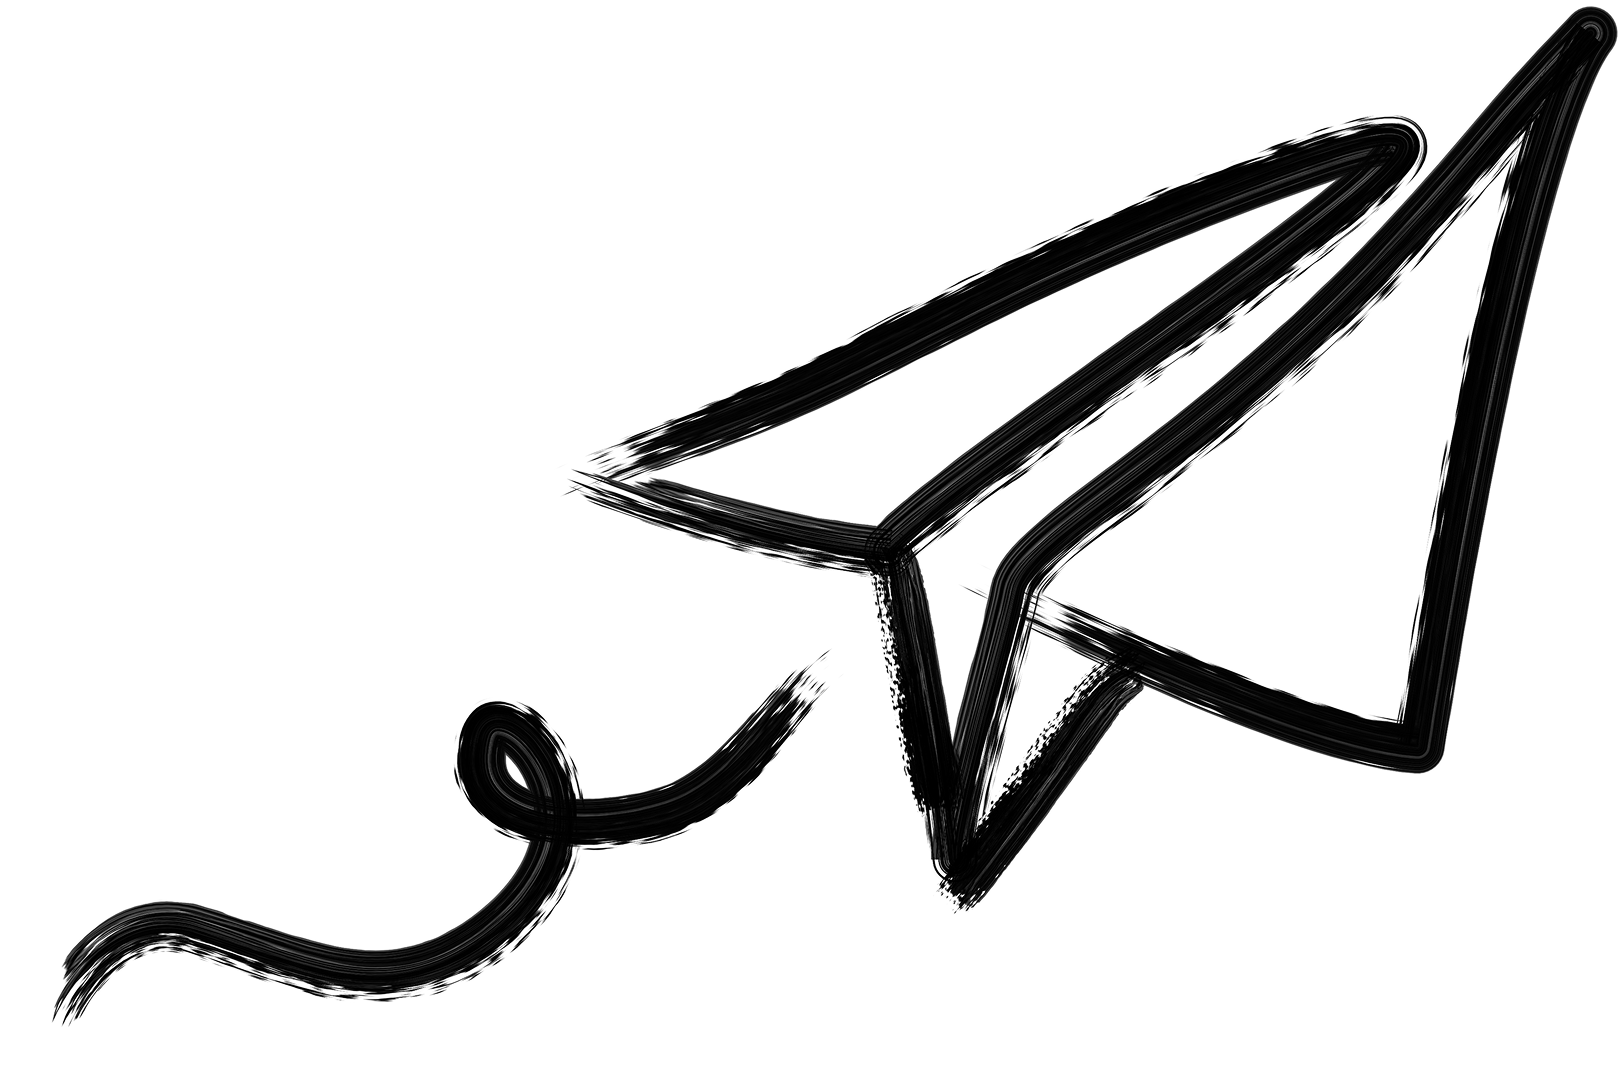
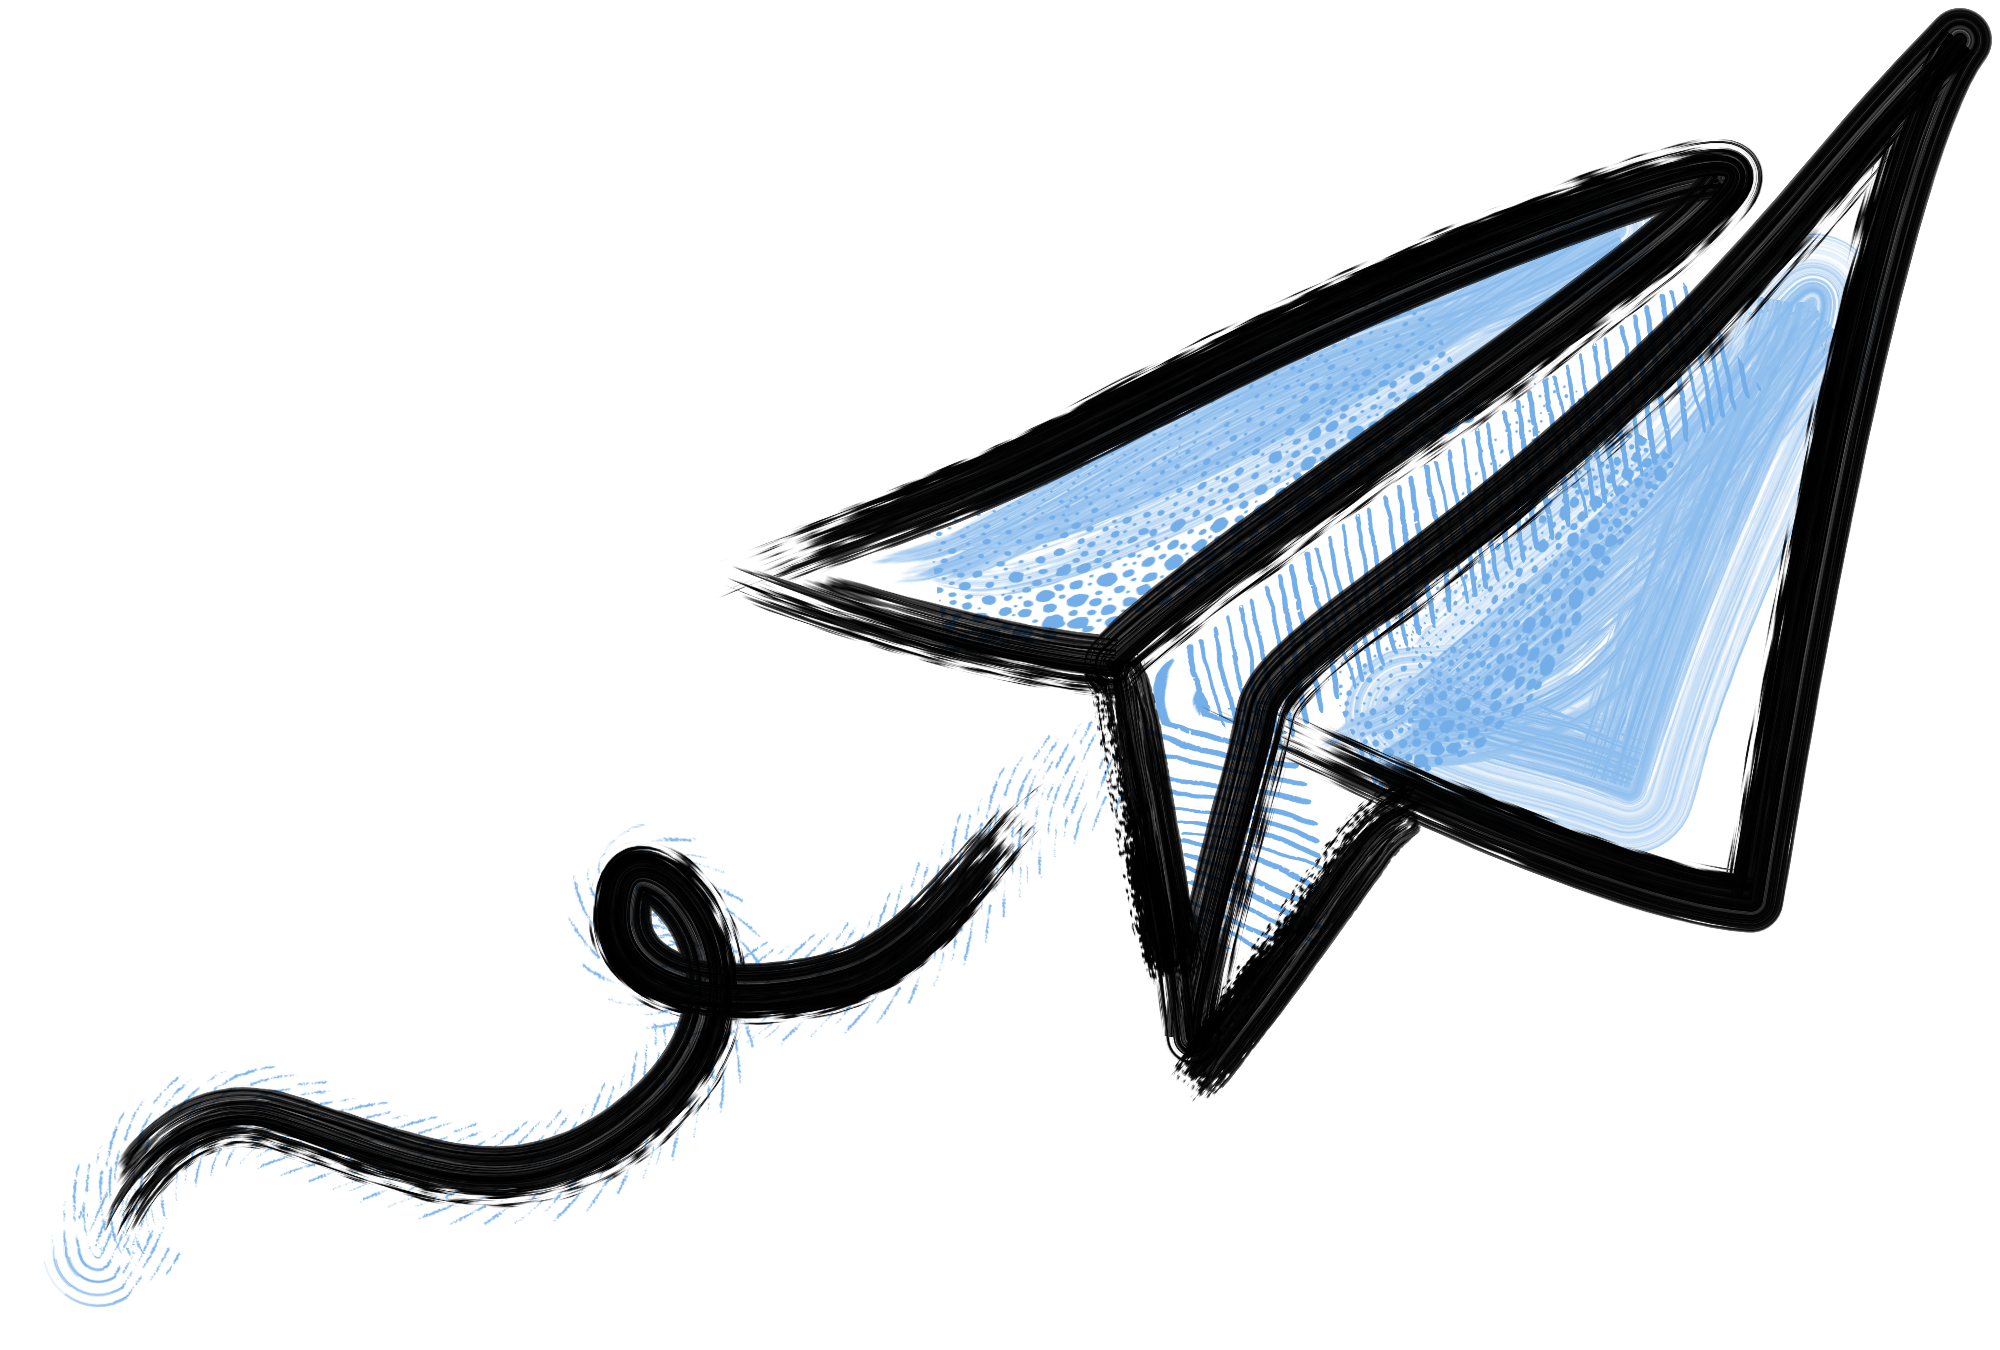
Finish contact form

Changed region(s): [[0.0308, 0.0608, 0.9858, 0.9724], [0.9858, 0.0304, 1.0, 0.0608]]

diff --git a/frontend/styles/_contact.scss b/frontend/styles/_contact.scss
@@ -3,6 +3,7 @@
 .contact {
 	background: url("/images/contact_border.png") left center / contain no-repeat;
   padding: 2rem 2rem 2rem 4rem;
+  margin-bottom: 8rem;
 
   @media only screen and (min-width: $breakpoint-large) {
 		margin-top: 4rem;
@@ -24,15 +25,9 @@
 
     input, textarea {
       width: 100%;
-      padding: 1rem;
-      border: none;
-      background-color: #fff;
-      border-radius: 4px;
-      font-size: 1rem;
-      box-shadow: 0 2px 8px rgba(0, 0, 0, 0.05);
+      box-shadow: 1px 1px 144px 0px rgba(115, 174, 233, 0.2);
       
       &::placeholder {
-        font-family: "Urbanist", sans-serif;
         color: #a0a0a0;
       }
 

diff --git a/frontend/styles/_typography.scss b/frontend/styles/_typography.scss
@@ -16,6 +16,15 @@ a, button {
 	}
 }
 
+input, textarea, select {
+	border: 1px solid #d0e6ff;
+	font-family: "Urbanist", sans-serif;
+	padding: 1rem;
+	background-color: #fff;
+	border-radius: 0.25rem;
+	font-size: 1rem;
+}
+
 input, textarea, select, button {
   box-sizing: border-box;
 }
